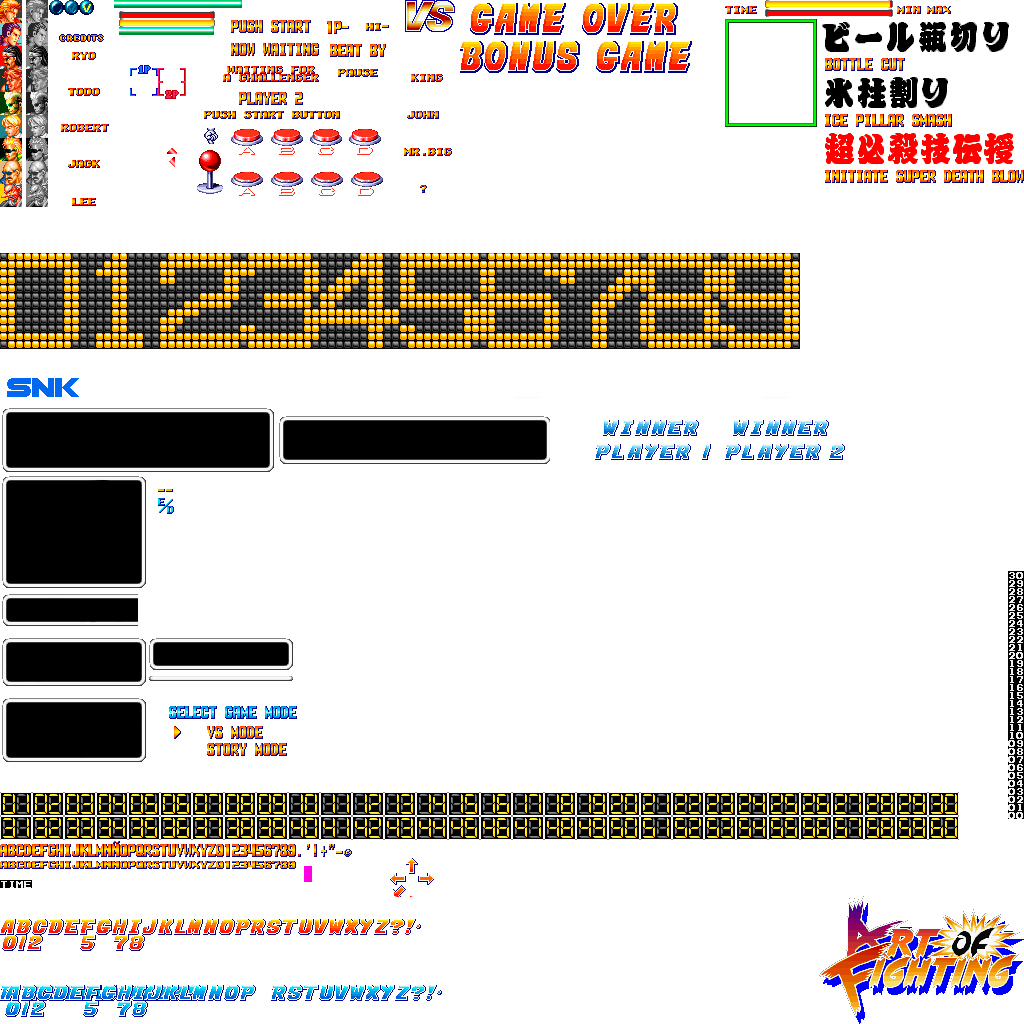
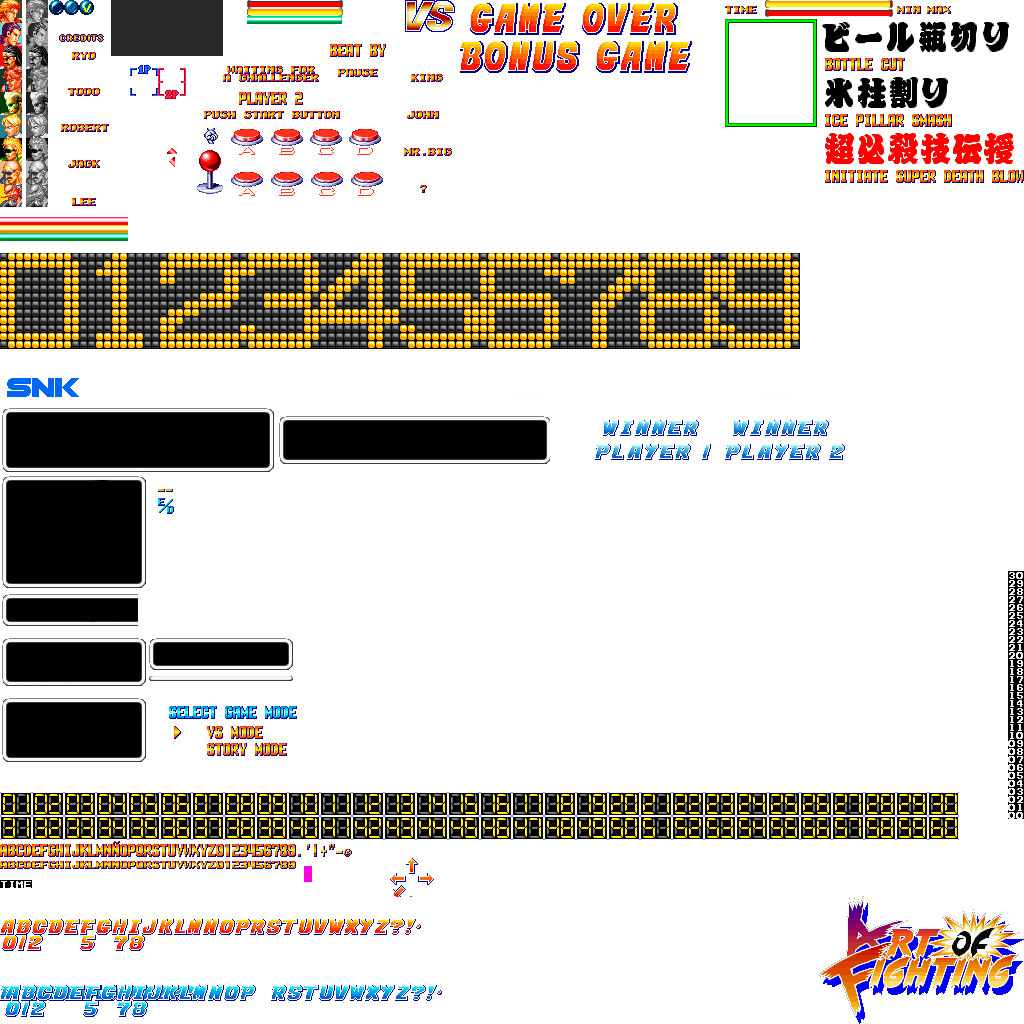
Stamina bar finished

Changed region(s): [[0.0938, 0.0, 0.375, 0.0625], [0.0, 0.1875, 0.125, 0.25]]

diff --git a/Temp project/vsl_2017/vsl_2017/ModuleUI.cpp b/Temp project/vsl_2017/vsl_2017/ModuleUI.cpp
@@ -18,12 +18,18 @@ ModuleUI::ModuleUI()
 	currenthp1 = 127;
 	currenthp2 = 127;
 
+	staminabar1rect = { 0,233, 128,8 };
+	staminabar2rect = { 0,233, 128,8 };
+	currentsta1 = 0;
+	currentsta2 = 0;
+	staminatest = 100;
+
 	for (int i = 0; i < 9; i++)
 	{
 		characterID[i] = i * 22;
 	}
-	avatar1rect = {0,characterID[0],23,22};
-	avatar2rect = {0,characterID[0],23,22};
+	avatar1rect = {0,characterID[0],23,23};
+	avatar2rect = {0,characterID[0],23,23};
 }
 ModuleUI::~ModuleUI()
 {
@@ -62,9 +68,8 @@ update_status ModuleUI::Update()
 		timerrect = { currentTimerposX,816,32,24 };
 		App->render->Blit(graphics, 136, 8, &timerrect, 1.0f, false, false);
 	}
-	
-	
 	if (currenttime > 60) timerrect = { 60,816,32,24 };
+	
 	//--------------------------------------------------------------------
 		//Lifebars:
 
@@ -86,12 +91,45 @@ update_status ModuleUI::Update()
 	App->render->Blit(graphics, 9, 17, &lifebar1rect, 1.0f, false, false);
 	App->render->Blit(graphics, 169, 17, &lifebar2rect, 1.0f, false, false);
 	//--------------------------------------------------------------------
+	//STAMINABARS:
+	if (currentsta1 != ReglaDe3(staminatest, 100, 128))
+	{
+		if (currentsta1 > ReglaDe3(staminatest, 100, 128))
+		{
+			currentsta1 -= 1;
+			staminabar1rect = { 128 - currentsta1 ,ColorSelector(currentsta1), 128,8 };
+		}
+		if (currentsta1 < ReglaDe3(staminatest, 100, 128))
+		{
+			currentsta1 += 1;
+			staminabar1rect = { 128 - currentsta1 ,ColorSelector(currentsta1), 128,8 };
+		}
+	}
 
+	if (currentsta2 != ReglaDe3(staminatest, 100, 128))
+	{
+		if (currentsta2 > ReglaDe3(staminatest, 100, 128))
+		{
+			currentsta2 -= 1;
+			staminabar2rect = { 0,ColorSelector(currentsta2), currentsta2,8 };
+		}
+		if (currentsta2 < ReglaDe3(staminatest, 100, 128))
+		{
+			currentsta2 += 1;
+			staminabar2rect = { 0,ColorSelector(currentsta2), currentsta2,8 };
+		}
+	}
+
+	App->render->Blit(graphics, 43, 24, &staminabar1rect, 1.0f, true, false);
+	App->render->Blit(graphics, 168, 24, &staminabar2rect, 1.0f, false, false);
+
+	//---------------------------------------------------------------------------
 	//Pictures:
-	//App->render->DrawQuad({ 33, 16, 26, 24 }, 255, 255, 255, 255, false);
+	App->render->DrawQuad({ 32, 66, 48, 50 }, 255, 255, 255, 255, false);
+	App->render->DrawQuad({ 518, 66, 48, 50 }, 255, 255, 255, 255, false);
 	App->render->Blit(graphics, 17, 34, &avatar1rect, 1.0f, false, false);
-	//App->render->Blit(graphics, 169, 17, &avatar2rect, 1.0f, false, false);
-
+	App->render->Blit(graphics, 242, 34, &avatar2rect, 1.0f, true, false);
+	//-------------------------------------------------------------------------
 	//App->render->DrawQuad({ 0, 0, 10, 10 }, 255, 255, 255, 255, false);
 	return UPDATE_CONTINUE;
 }
@@ -100,6 +138,24 @@ int ModuleUI::ReglaDe3(float newhp, float hpbase, float pixels)
 {
 	float res = (float)(newhp / hpbase) * pixels;
 	return (int)res;
+}
+
+int ModuleUI::ColorSelector(int currentstamina)
+{
+	if (currentstamina < 30)
+	{
+		return 217;
+	}
+
+	if (currentstamina >= 30 && currentstamina < 70)
+	{
+		return 225;
+	}
+
+	if (currentstamina >= 70)
+	{
+		return 233;
+	}
 }
 
 bool ModuleUI::CleanUp()

diff --git a/Temp project/vsl_2017/vsl_2017/ModuleUI.h b/Temp project/vsl_2017/vsl_2017/ModuleUI.h
@@ -16,6 +16,7 @@ public:
 	update_status Update();
 	bool CleanUp();
 	int ReglaDe3(float num1, float num2, float num3);
+	int ColorSelector(int currentstamina);
 
 public:
 	SDL_Rect lifebar1rect, lifebar2rect, emptylb, staminabar1rect, staminabar2rect;
@@ -27,6 +28,8 @@ public:
 	int startTime;
 
 	int currenthp1, currenthp2;
+
+	int currentsta1, currentsta2, staminatest;
 
 	int characterID[9];
 	SDL_Texture* graphics = nullptr;
